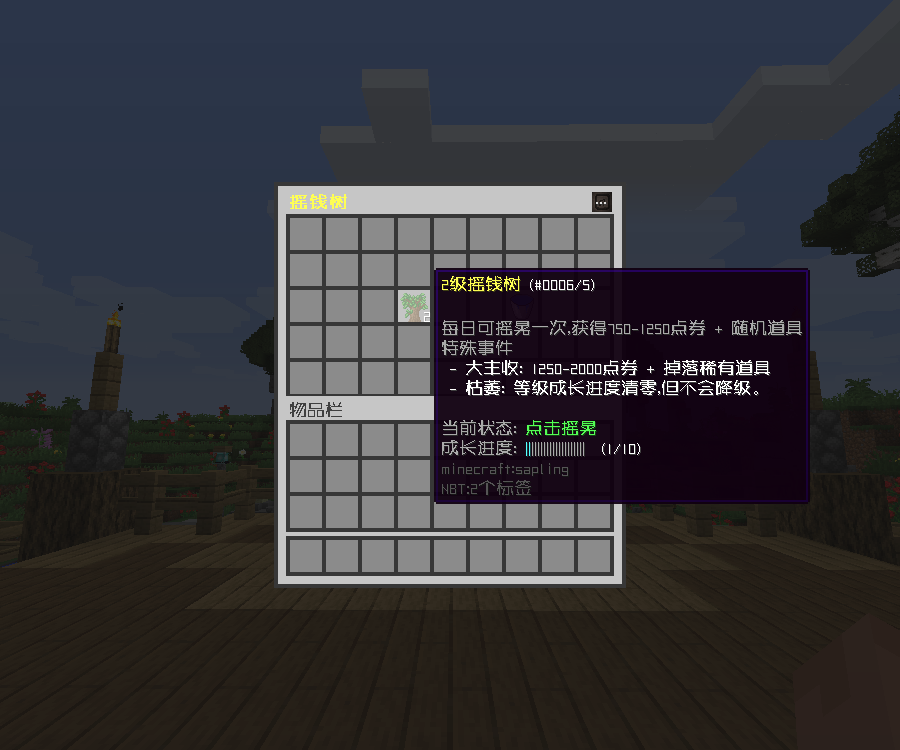
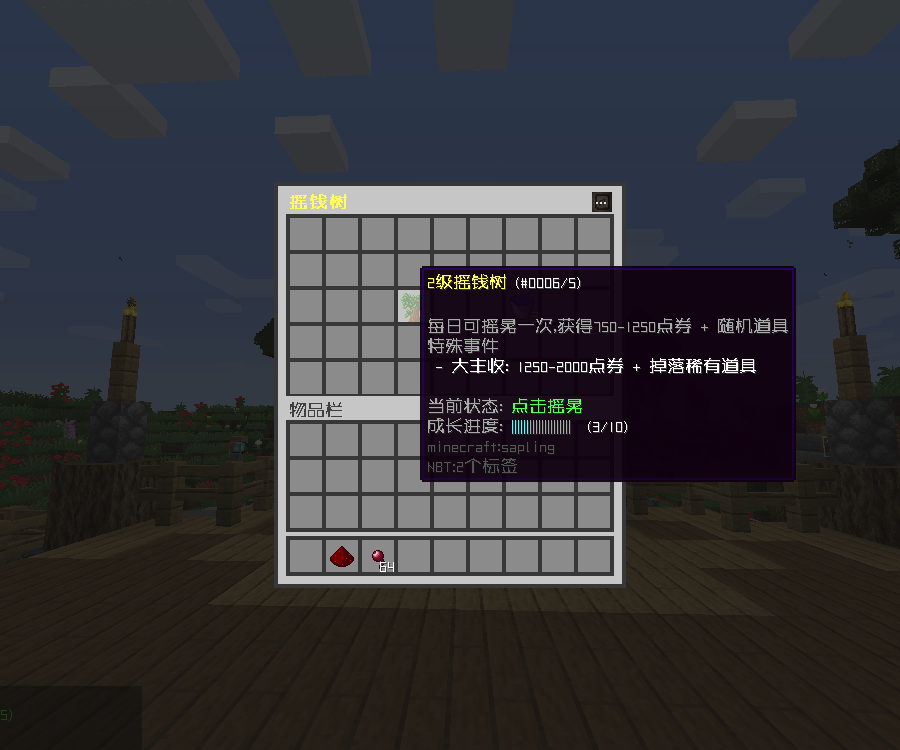
update

diff --git a/docs/wiki/plugins/CraftX/example/摇钱树/intro.md b/docs/wiki/plugins/CraftX/example/摇钱树/intro.md
@@ -11,7 +11,6 @@
 - 玩家 **每日可摆晃一次**，获得 **点券 + 随机道具**。
 - 有一定概率触发 **特殊事件**：
     - **🌟 大丰收**：掉落 **稀有道具**。
-    - **🦀 枯萎**：当前等级的 **成长进度清零**，但 **不会降级**。
 
 ### 💧 浇水升级
 
@@ -19,6 +18,11 @@
 - 每个等级需要 **不同次数的浇水** 才能升级：
     - **Lv.1 → Lv.2**：5 次浇水
     - **Lv.2 → Lv.3**：10 次浇水
+
+- 有一定概率触发 **特殊事件**：
+  - **🌱 快速生长**：额外增加**成长进度**。
+  - **💧 免费浇水**：**免费浇水**。
+  - **🦀 枯萎**：当前等级的 **成长进度清零**，但 **不会降级**。
 
 ## 🎁 奖励机制
 

diff --git a/docs/wiki/plugins/YeeGuide/placeholder.md b/docs/wiki/plugins/YeeGuide/placeholder.md
@@ -2,6 +2,8 @@
 
 ### Placeholder
 
-| 内容      | 变量                            |
-|---------|-------------------------------|
-| 怪物组当前状态 | `%yeeguide_state_副本Id_怪物组Id%` |
+| 内容      | 变量                              |
+|---------|---------------------------------|
+| 怪物组当前状态 | `%yeeguide_state_副本Id_怪物组Id%`   |
+| 怪物组进度数量 | `%yeeguide_current_副本Id_怪物组Id%` |
+| 怪物组所需数量 | `%yeeguide_need_副本Id_怪物组Id%`    |
